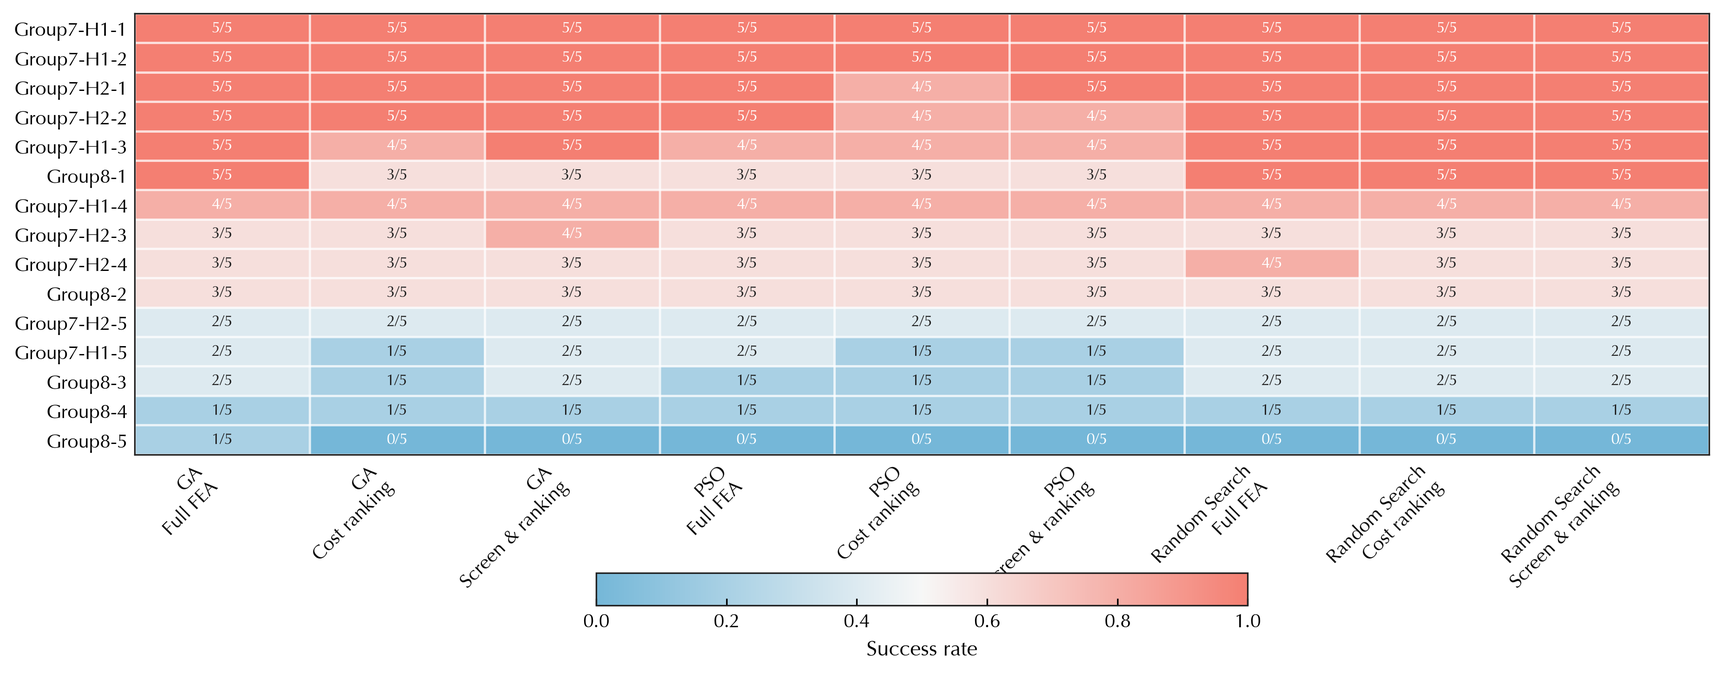
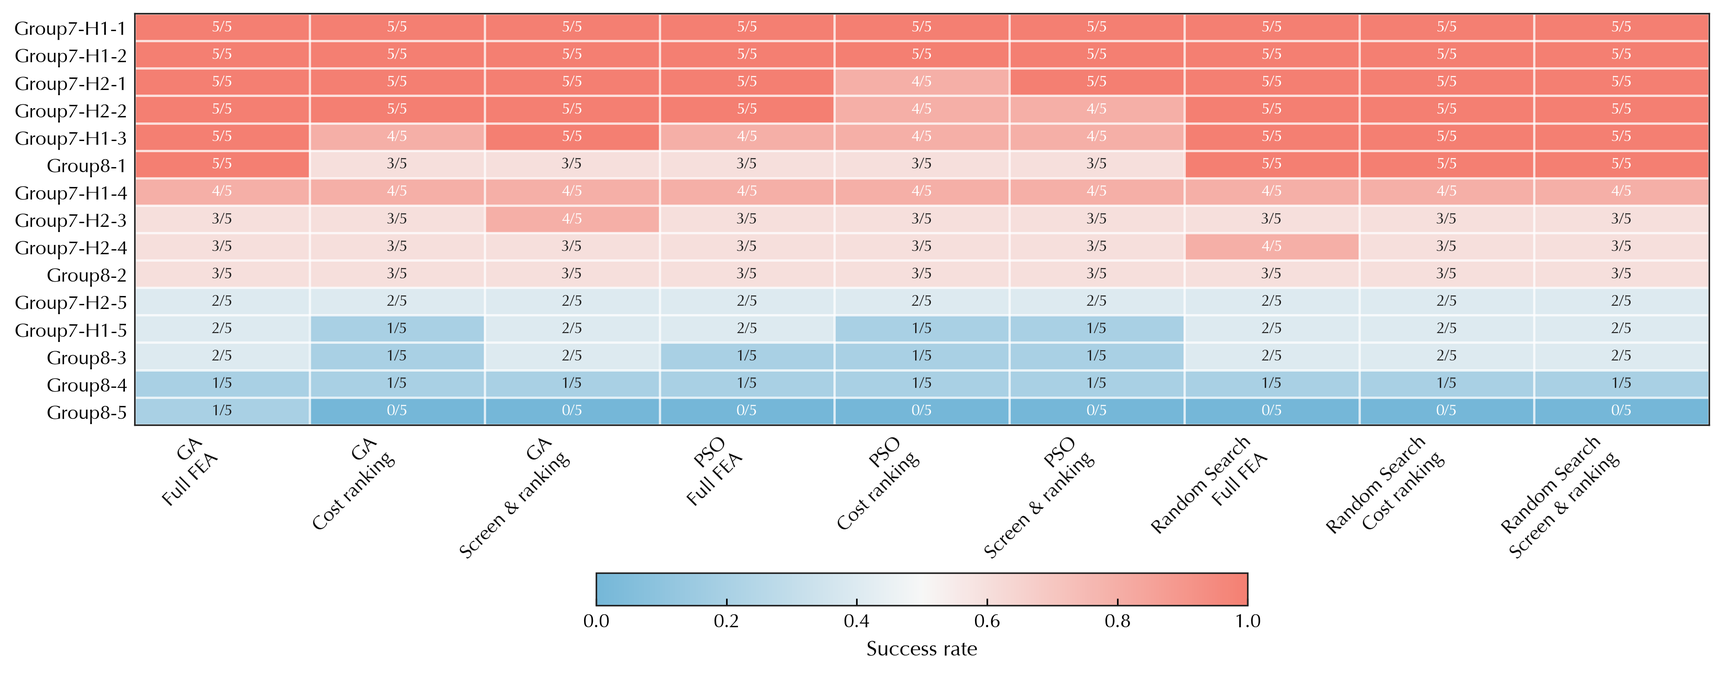
重新绘图、加参考文献

Changed region(s): [[0.0, 0.0309, 1.0, 0.866], [0.2789, 0.7423, 0.3099, 0.8041], [0.6508, 0.8041, 0.6818, 0.8351]]

diff --git a/docs/paper2/latex/1_intro.tex b/docs/paper2/latex/1_intro.tex
@@ -1,16 +1,22 @@
 \section{Introduction}
 \label{sec:intro}
 
-Surrogate-assisted optimization has become an important strategy for accelerating structural design problems that require repeated finite-element analysis (FEA). In shear wall structural design for high-rise buildings, engineers need to determine wall thicknesses, beam section dimensions, material grades, and other design parameters while satisfying multiple code-based constraints, including inter-story drift, torsional response, axial compression ratio, shear-compression ratio, and member reinforcement requirements. For each candidate design, reliable evaluation usually requires parametric modeling, FEA, structural response extraction, and member-level code checking. When population-based optimizers such as genetic algorithms or particle swarm optimization are adopted, a large number of candidate designs must be evaluated, making repeated FEA and code checking the dominant computational bottleneck.
+Shear wall structures are widely used in high-rise residential and commercial buildings because they provide high lateral stiffness and load-carrying capacity under wind and seismic actions. In practical engineering design, once the architectural layout and the main shear wall arrangement have been determined, engineers still need to select suitable section and material parameters, including wall thicknesses, beam dimensions, concrete grades, and other design-related variables. These parameters directly affect structural safety, reinforcement demand, concrete volume, and material cost. However, evaluating a candidate design is not a simple response-prediction task. It usually requires parametric model generation, finite element analysis (FEA), response extraction, member-level reinforcement design, and code-based checking. When population-based optimization algorithms are used, hundreds or thousands of candidate designs may be generated. Repeated FEA and code checking therefore become the main computational bottleneck in section and material optimization of shear wall structures.
 
-Existing studies have explored various approaches to improve the automation and efficiency of shear wall structural design. Traditional optimization methods, such as genetic algorithms, tabu search, and other metaheuristic algorithms, have been used to search for cost-effective shear wall layouts or section configurations under engineering constraints . More recent studies have introduced prior design knowledge, CAD/BIM-based automatic modeling, machine learning, and generative models into preliminary shear wall design, enabling more efficient layout generation, structural scheme exploration, and data-driven design support . These studies have advanced the automation of shear wall structural design, but many of them still rely on expensive structural analyses to evaluate candidate solutions. Therefore, for section and material optimization of a given shear wall layout, the key challenge is not only how to search the design space, but also how to allocate limited FEA evaluations to candidates that are more likely to be feasible and cost-effective.
+Considerable efforts have been made to improve the automation and optimization of shear wall structural design. Early optimization studies formulated the design of reinforced concrete shear wall or wall-slab systems as cost minimization problems and used genetic algorithms to search for economical section or material configurations \cite{Atabay2009}. Tafraout et al. further combined genetic optimization with an automatic design workflow in a BIM environment for reinforced concrete wall-slab buildings \cite{Tafraout2019}. For the layout design problem, Zhang and Mueller investigated shear wall layout optimization at the conceptual design stage \cite{Zhang2017}, while Lou et al. proposed a data-driven tabu search strategy for high-rise building layouts \cite{Lou2021}. Other studies have incorporated engineering prior knowledge and modified evolutionary algorithms to improve the practicality of automated shear wall design \cite{Zhou2022}. These studies demonstrate the value of optimization algorithms and automatic modeling tools, but their evaluation process still relies heavily on structural analysis and design checking. As a result, the computational cost of candidate evaluation remains a major obstacle when a large number of section-material alternatives must be explored for a fixed layout.
 
-Surrogate models provide a natural way to reduce the number of expensive evaluations in structural optimization. Response surface models, Kriging models, support vector machines, neural networks, and other data-driven surrogates have been widely used to approximate structural responses, replace costly simulations, or guide optimization and reliability analysis . In building engineering, surrogate models have also been applied to predict seismic responses, wind-induced responses, material quantities, and performance indicators of structural systems. These methods demonstrate the potential of data-driven prediction for accelerating structural design. In shear wall structural optimization, a single static surrogate has difficulty reproducing the coupled global and member-level checks that govern design feasibility.
+Data-driven generative design has recently provided another route for intelligent shear wall design. Liao et al. proposed a GAN-based method that learns shear wall design patterns from engineering drawings and generates wall layouts from architectural conditions \cite{Liao2021}. Lu et al. improved this direction by introducing physical information into the generative process, so that generated shear wall schemes can better satisfy structural-performance requirements \cite{Lu2022}. Fei et al. developed an integrated schematic design method to make GAN-based shear wall design more applicable in practical workflows \cite{Fei2022}. Zhao et al. introduced graph neural networks to represent shear wall layouts, reducing the dependence on pixel-based image representations and better capturing topological relationships \cite{Zhao2023}. Diffusion-based methods have also been explored for end-to-end shear wall layout generation and analysis \cite{Leng2024}. These studies mainly address layout generation or schematic structural design. In contrast, the present study focuses on a different stage: for a given shear wall layout, how to optimize section and material parameters efficiently while retaining high-fidelity FEA and code checking as the final verification basis.
 
-Several limitations become particularly important when surrogate models are used for shear wall structural optimization. First, the behavior of shear wall buildings is strongly layout-dependent. Even under the same section and material parameters, different wall arrangements may lead to different lateral stiffness distributions, load paths, seismic responses, and reinforcement demands. A global surrogate trained on multiple layouts may therefore suffer from layout-specific prediction bias when applied to a new design case. Second, optimization is an iterative process in which the candidate distribution gradually changes. A surrogate model trained offline may not remain accurate in the local region explored by the optimizer. Third, different surrogate predictions should serve different roles in the optimization process. Feasibility prediction should be conservative to avoid rejecting potentially feasible designs, whereas reinforcement usage prediction is more useful for ranking candidates by material economy. These requirements are not fully addressed by conventional surrogate modeling settings that focus mainly on global classification or regression accuracy.
+Reinforcement learning (RL) has also attracted increasing attention in structural design optimization because it can learn sequential design policies from interaction with an analysis environment. Jeong and Jo proposed a deep RL framework for automated design of reinforced concrete structures \cite{Jeong2021}. Hayashi and Ohsaki combined RL with graph embedding for binary truss topology optimization under stress and displacement constraints \cite{Hayashi2020}. Fu et al. developed a physics-informed deep RL framework, FrameRL, for automated steel frame structure design \cite{Fu2024}. Rochefort-Beaudoin et al. introduced SOgym as an open-source RL environment for structural topology optimization \cite{RochefortBeaudoin2025}. More recently, RL has also been applied to automated design of shear wall structures with code compliance \cite{Zhao2026}. These studies show the potential of RL in learning design strategies for structural systems. However, RL-based structural optimization usually requires many interactions between the agent and the structural evaluation environment. This requirement is particularly restrictive for shear wall structures because large-scale random generation of realistic layouts is difficult, engineering design drawings are costly to collect, and each candidate evaluation involves time-consuming FEA and code-based reinforcement design. Therefore, for the problem considered in this paper, directly training an RL policy over a large number of shear wall design cases may introduce a computational and data-collection burden comparable to, or even larger than, the original optimization problem.
 
-This paper proposes a calibrated surrogate-assisted optimization framework for FEA-efficient shear wall structural design. The proposed framework uses surrogate models as pre-evaluation tools for candidate screening and analysis budget allocation. A layout-conditioned surrogate model is first trained to estimate candidate feasibility and reinforcement usage from layout information and design parameters. During optimization, FEA-verified samples accumulated from the current layout are further used to perform online local calibration, so that global surrogate predictions can be corrected for the current design case and local search region. The calibrated feasibility and reinforcement predictions are then used to conservatively filter low-value candidates and prioritize promising candidates for true FEA and code checking.
+Surrogate-assisted optimization provides a more direct way to reduce the cost of expensive simulation-based design. Classical surrogate modeling and response-surface-based optimization methods, including Kriging, radial basis functions, support vector machines, and neural networks, have been widely used to approximate expensive objective or constraint functions \cite{Jones1998}. Queipo et al. reviewed surrogate-based analysis and optimization for expensive engineering simulations \cite{Queipo2005}, and Forrester and Keane summarized later advances in surrogate-based optimization \cite{Forrester2009}. In structural engineering, surrogate models have been increasingly used to approximate finite-element responses, support reliability analysis, and accelerate design exploration \cite{Kudela2022}. Samadian et al. also reviewed data-driven surrogate models in structural engineering and emphasized their role in reducing computational burden \cite{Samadian2024}. These studies provide a clear motivation for using surrogate models in FEA-intensive structural optimization. Nevertheless, in shear wall section-material optimization, the surrogate is not expected to fully replace the true evaluator. The more practical question is whether fast predictions can help decide which candidates should be screened out, which should be ranked as promising, and which should be submitted to FEA under a limited evaluation budget.
 
-The main contributions of this study are summarized as follows. First, a layout-conditioned surrogate modeling strategy is developed for candidate assessment in shear wall section and material optimization, enabling both feasibility screening and reinforcement usage estimation before FEA. Second, an online local calibration mechanism is introduced to correct layout-specific surrogate bias using FEA-verified samples generated during the optimization process. Third, a calibrated surrogate-assisted optimization framework is established to allocate FEA budgets more effectively through conservative candidate screening and priority ranking.
+This candidate-assessment perspective leads to two requirements that are not fully captured by ordinary global prediction accuracy. First, the prediction model should account for the structural layout. For the same wall thicknesses, beam sections, and material grades, different shear wall arrangements may produce different stiffness distributions, load paths, torsional responses, and member force patterns. This observation is consistent with previous layout-generation and graph-based shear wall design studies, where spatial organization and topology are treated as important design information \cite{Zhao2023}. Therefore, a surrogate model that only uses section and material parameters is insufficient for cross-layout candidate assessment. A layout-conditioned representation is needed so that the surrogate can distinguish different structural configurations while evaluating the same type of design variables.
 
-The remainder of this paper is organized as follows. Section 2 defines the shear wall structural optimization problem and introduces the calibrated surrogate modeling strategy. Section 3 presents the surrogate-assisted optimization framework and the online update mechanism. Section 4 describes the dataset, experimental settings, and evaluation metrics. Section 5 reports and discusses the experimental results. Section 6 concludes the paper and outlines future research directions.
+Second, the surrogate outputs used for optimization should be reliable for their intended decisions. Feasibility prediction is used for conservative screening, where falsely rejecting a feasible candidate may remove a potential optimum before FEA verification. Thus, probability reliability and feasible-candidate recall are more important than ordinary classification accuracy alone. This is related to the broader machine-learning literature showing that accurate classifiers may still produce poorly calibrated probabilities \cite{Guo2017}. Calibration methods such as Platt scaling and isotonic regression have been widely studied to improve the consistency between predicted probabilities and observed frequencies \cite{Platt1999}. Niculescu-Mizil and Caruana also showed that different supervised learning algorithms can have substantially different probability-calibration behavior \cite{NiculescuMizil2005}. In contrast, reinforcement usage prediction is mainly used for cost-oriented ranking. For this task, the relative order of candidates may be more important than the exact reinforcement quantity. These different error costs suggest that feasibility screening and reinforcement-based ranking should be treated as complementary functions rather than merged into a single surrogate score.
+
+Another practical issue is that the candidate distribution changes during optimization. A global surrogate trained on samples from many layouts can provide useful prior knowledge, but the optimizer gradually concentrates on a local region of the section-material design space for the current layout. The errors of the global surrogate in this local region may directly affect screening and ranking decisions. At the same time, every candidate submitted to FEA naturally produces verified information, including the true feasibility label and reinforcement usage. These verified samples provide an opportunity to correct the bias of the global surrogate for the current layout and search region. Instead of retraining the full surrogate model, a lightweight local calibration module can use these samples to adjust feasibility probabilities and reinforcement residuals during optimization.
+
+Based on the above considerations, this paper proposes a calibrated surrogate-assisted optimization framework for FEA-efficient shear wall structural design. The study focuses on section and material parameter optimization for a given shear wall layout. A layout-conditioned graph surrogate model is first trained to estimate candidate feasibility and reinforcement usage from room-level graph representations, global layout statistics, and design parameters. During optimization, FEA-verified samples accumulated from the current layout are stored in a local calibration buffer. These samples are used to calibrate the feasibility probability and correct the reinforcement residual of the global surrogate. The calibrated feasibility prediction is then used for conservative candidate screening, while the calibrated reinforcement prediction is used for cost-oriented priority ranking. Only selected candidates are submitted to high-fidelity FEA and code-based checking, and the final best design is always selected from FEA-verified feasible candidates.
+
+The main contributions of this study are summarized as follows. First, a layout-conditioned surrogate modeling strategy is developed for shear wall section-material optimization, enabling candidate feasibility and reinforcement demand to be estimated before expensive FEA while explicitly considering layout information. Second, an online local calibration mechanism is introduced to correct layout-specific probability and residual bias using FEA-verified samples generated during the optimization process. Third, a calibrated surrogate-assisted candidate assessment strategy is established to allocate limited FEA budgets through conservative feasibility screening and cost-oriented priority ranking, thereby improving optimization efficiency while retaining high-fidelity verification as the final decision basis.

diff --git a/docs/paper2/latex/5_results.tex b/docs/paper2/latex/5_results.tex
@@ -87,7 +87,7 @@ Algorithm & Method & Runs & Success rate & Mean FEA calls & FEA reduction & Firs
 Table~\ref{tab:global_feasibility_results} compares the feasibility surrogate under three input settings. When only design parameters are used, the model achieves a PR-AUC of 0.6137 and an F1 score of 0.5927 on the test layouts. Adding global layout statistics improves the PR-AUC to 0.8163 and the F1 score to 0.7370, indicating that layout-level geometric and topological descriptors provide important information for feasibility judgment. The proposed LayoutParamGNN further improves the ROC-AUC and PR-AUC to 0.9693 and 0.8593, respectively, with an F1 score of 0.7688. The corresponding precision--recall curve in Fig.~\ref{fig:global_surrogate_overview}(a) also shows that the graph-based feasibility model separates feasible and infeasible candidates substantially better than the baseline feasible rate. This improvement suggests that the room-level graph representation captures additional spatial organization information that cannot be fully represented by manually defined layout statistics alone.
 
 
-From the perspective of optimization, the feasibility surrogate mainly supports conservative screening. Under the selected screening threshold, the LayoutParamGNN rejects approximately 47.36\% of candidate samples while maintaining a feasible recall of 0.9998, with only three truly feasible samples being falsely rejected. In comparison, the design-parameter-only model produces more false rejections under a similar reject rate. The layout-statistics model reduces the false reject count to 10, but its overall PR-AUC and F1 score remain lower than those of the LayoutParamGNN. These results support the use of the room-level graph model as the global feasibility surrogate in the subsequent optimization experiments.
+From the perspective of optimization, the feasibility surrogate mainly supports conservative screening. Under the selected screening threshold, the LayoutParamGNN rejects approximately 47.36\% of candidate samples while maintaining a feasible recall of 0.9998, with only 3 truly feasible samples being falsely rejected. In comparison, the design-parameter-only model produces more false rejections under a similar reject rate. The layout-statistics model reduces the false reject count to 10, but its overall PR-AUC and F1 score remain lower than those of the LayoutParamGNN. These results support the use of the room-level graph model as the global feasibility surrogate in the subsequent optimization experiments.
 
 The reinforcement usage prediction results are shown in Table~\ref{tab:global_steel_results}. The design-parameter-only MLP obtains an MAE of 32.30~t and an $R^2$ of 0.351, which is insufficient for reliable candidate ranking. After adding global layout statistics, the MAE decreases to 13.83~t and the $R^2$ increases to 0.891. The LayoutParamGNN further reduces the MAE to 11.48~t and improves the $R^2$ to 0.924. The consistent improvement in both feasibility prediction and reinforcement estimation confirms that shear wall structural performance and reinforcement demand are strongly affected by layout characteristics.
 
@@ -116,14 +116,14 @@ The best feasibility probability calibrator and steel residual calibrator under 
 \subsection{Optimization Efficiency and Solution Quality}
 \label{subsec:optimization_results}
 
-The calibrated surrogate models are further embedded into optimization procedures to evaluate their practical effect on FEA efficiency and solution quality. Figure~\ref{fig:optimization_benchmark_results}(a)--(c) and Table~\ref{tab:optimization_summary_results} show that surrogate-assisted evaluation substantially reduces true FEA calls across GA, PSO, and random search. The cost-ranking strategy reduces FEA calls by about 50\%--57\%, while adding feasibility screening increases the reduction to about 62\%--66\%. This consistent reduction across three optimizers indicates that the efficiency gain mainly comes from surrogate-based candidate allocation rather than from a specific search algorithm.
+The calibrated surrogate models are further embedded into optimization procedures to evaluate their practical effect on FEA efficiency and solution quality. Figure~\ref{fig:optimization_benchmark_results} and Table~\ref{tab:optimization_summary_results} show that surrogate-assisted evaluation substantially reduces true FEA calls across GA, PSO, and random search. The cost-ranking strategy reduces FEA calls by about 50\%--57\%, while adding feasibility screening increases the reduction to about 62\%--66\%. This consistent reduction across three optimizers indicates that the efficiency gain mainly comes from surrogate-based candidate allocation rather than from a specific search algorithm.
 
 Table~\ref{tab:optimization_summary_results} summarizes the main quantitative results of the optimization experiments. Each optimizer is tested on 15 layouts with five random seeds, resulting in 75 runs for each evaluation strategy. The cost ratio is computed only for paired cases where both the surrogate-assisted strategy and the corresponding full FEA baseline find feasible solutions.
 
 
 The feasible-solution discovery rate remains close to that of the full FEA baseline. With the Screen \& ranking strategy, the success rate decreases only slightly for GA and PSO and remains nearly unchanged for random search. Although surrogate-assisted methods may miss feasible designs in some cases, the loss in success rate is small compared with the achieved FEA savings.
 
-The final material cost results indicate that the surrogate-assisted strategies do not substantially degrade solution quality, as shown in Fig.~\ref{fig:optimization_benchmark_results}(d)--(f). For the Screen \& ranking strategy, the average material cost increase relative to the full FEA baseline is about 0\%--2\% among paired cases where both strategies find feasible solutions. The first-feasible distributions in Fig.~\ref{fig:optimization_benchmark_results}(g)--(i) further show that screening generally reduces the number of FEA calls required to find the first feasible solution, indicating that feasibility prediction helps the optimizer avoid obviously infeasible regions in the early search stage.
+The final material cost results indicate that the surrogate-assisted strategies do not substantially degrade solution quality, as shown in the second row of Fig.~\ref{fig:optimization_benchmark_results}. For the Screen \& ranking strategy, the average material cost increase relative to the full FEA baseline is about 0\%--2\% among paired cases where both strategies find feasible solutions. The first-feasible distributions further show that screening generally reduces the number of FEA calls required to find the first feasible solution, indicating that feasibility prediction helps the optimizer avoid obviously infeasible regions in the early search stage.
 
 Figure~\ref{fig:cost_tolerance_analysis} further evaluates the robustness of solution quality in full-feasible cases. The horizontal axis represents the allowed cost tolerance relative to the full FEA optimum, and the vertical axis represents the proportion of cases that simultaneously satisfy three conditions: a feasible solution is found, the number of FEA calls is reduced, and the final cost is within the specified tolerance. As the tolerance increases from 0\% to about 5\%, the qualified-case ratio increases rapidly and then becomes stable. This trend indicates that, for most cases where full FEA optimization can find feasible solutions, the surrogate-assisted strategy can trade a small cost increase for a substantial reduction in FEA calls.
 

diff --git a/docs/paper2/latex/4_experiment_setup.tex b/docs/paper2/latex/4_experiment_setup.tex
@@ -26,10 +26,10 @@ Story height & $h_{story}$ & m & 2.9 \\
 Bottom wall thickness & $t_{w,b}$ & mm & 200, 250, 300, 350, 400 \\
 Middle wall thickness & $t_{w,m}$ & mm & 160, 180, 200, 250, 300 \\
 Top wall thickness & $t_{w,t}$ & mm & 160, 180, 200, 250 \\
-Main beam depth & $h_{b,main}$ & mm & 400, 500, 550, 600, 650, 700 \\
-Main beam width & $b_{b,main}$ & mm & 200, 250, 300, 350 \\
-Secondary beam depth & $h_{b,sec}$ & mm & 300, 400, 450, 500 \\
-Secondary beam width & $b_{b,sec}$ & mm & 200, 250, 300 \\
+Main beam depth & $h_{m}$ & mm & 400, 500, 550, 600, 650, 700 \\
+Main beam width & $b_{m}$ & mm & 200, 250, 300, 350 \\
+Secondary beam depth & $h_{s}$ & mm & 300, 400, 450, 500 \\
+Secondary beam width & $b_{s}$ & mm & 200, 250, 300 \\
 Concrete grade & $f_c$ & - & C30, C35, C40, C45, C50 \\
 Seismic intensity & $S_I$ & - & 6.0, 7.0, 7.5, 8.0 \\
 Site class & $S_C$ & - & I0, I, II, III, IV \\
@@ -227,7 +227,7 @@ The cost-ranking uses an evaluation ratio of 0.8 before the first feasible desig
 \subsection{Evaluation Metrics}
 \label{subsec:evaluation_metrics}
 
-Details of the full set of metrics used in this study are provided in \ref{app:evaluation_metrics}.
+Definitions of the full set of metrics used in this study are provided in \ref{app:evaluation_metrics}.
 
 The feasibility surrogate is assessed using ROC-AUC, PR-AUC, and F1 score to characterize overall classification performance. Because it is used as a conservative screening tool, feasible recall, reject rate, and false reject count are also reported to quantify the retained feasible candidates, the candidates filtered before FEA, and the feasible candidates mistakenly rejected by the screen.
 

diff --git a/docs/paper2/latex/3_framework.tex b/docs/paper2/latex/3_framework.tex
@@ -1,10 +1,5 @@
 
-\begin{figure*}[t]
-\centering
-\includegraphics[width=\textwidth]{calibrated_optimization_framework.png}
-\caption{Calibrated surrogate-assisted optimization framework.}
-\label{fig:calibrated_optimization_framework}
-\end{figure*}
+
 
 \section{Calibrated Surrogate-Assisted Optimization Framework}
 \label{sec:optimization_framework}
@@ -120,7 +115,7 @@ Through this two-stage mechanism, the feasibility surrogate and the reinforcemen
 \subsection{Optimizer and Surrogate Update after Candidate Evaluation}
 \label{subsec:online_update_framework}
 
-After candidate screening and priority ranking, only the selected candidates $\mathcal{S}_t$ are evaluated by the true evaluator. The optimizer is updated using two types of objective values: verified fitness values for candidates in $\mathcal{S}_t$ and rejected-objective values for candidates in $\mathcal{B}_t\setminus\mathcal{S}_t$. Because the optimizers minimize a scalar objective value, smaller values indicate better candidates.
+After candidate screening and priority ranking, only the selected candidates $\mathcal{S}_t$ are evaluated by the true evaluator. The optimizer is updated using two types of objective values: verified fitness values for candidates in $\mathcal{S}_t$ and rejected-objective values for the others. Because the optimizers minimize a scalar objective value, smaller values indicate better candidates.
 
 For a truly evaluated candidate design ${x}_{t,i}$, the scalar fitness used by the optimizer is defined as
 \begin{equation}

diff --git a/docs/paper2/plot/plot_optimization_paper_figures.py b/docs/paper2/plot/plot_optimization_paper_figures.py
@@ -225,7 +225,7 @@ def plot_success_heatmap(df: pd.DataFrame, out_dir: str | Path) -> None:
                 fontsize=8,
                 color=text_color,
             )
-    cbar = fig.colorbar(im, ax=ax, orientation="horizontal", fraction=0.055, pad=0.20)
+    cbar = fig.colorbar(im, ax=ax, orientation="horizontal", fraction=0.055, pad=0.25)
     cbar.set_label("Success rate", labelpad=4)
     fig.tight_layout()
     save_figure(fig, "layout_difficulty_heatmap.png", out_dir)

diff --git a/docs/paper2/latex/2_problem_model.tex b/docs/paper2/latex/2_problem_model.tex
@@ -13,6 +13,13 @@
 \label{fig:online_calibration}
 \end{figure*}
 
+\begin{figure*}[t]
+\centering
+\includegraphics[width=\textwidth]{calibrated_optimization_framework.png}
+\caption{Calibrated surrogate-assisted optimization framework.}
+\label{fig:calibrated_optimization_framework}
+\end{figure*}
+
 \section{Calibrated Surrogate Modeling Method for Shear Wall Structural Optimization}
 \label{sec:problem_surrogate}
 

diff --git a/docs/paper2/latex/main.tex b/docs/paper2/latex/main.tex
@@ -234,8 +234,8 @@ This work was supported by the National Natural Science Foundation of China (No.
 %% If you have bibdatabase file and want bibtex to generate the
 %% bibitems, please use
 %%
-% \bibliographystyle{elsarticle-num} 
-% \bibliography{cas-refs}
+\bibliographystyle{elsarticle-num} 
+\bibliography{cas-refs}
 
 %% else use the following coding to input the bibitems directly in the
 %% TeX file.
